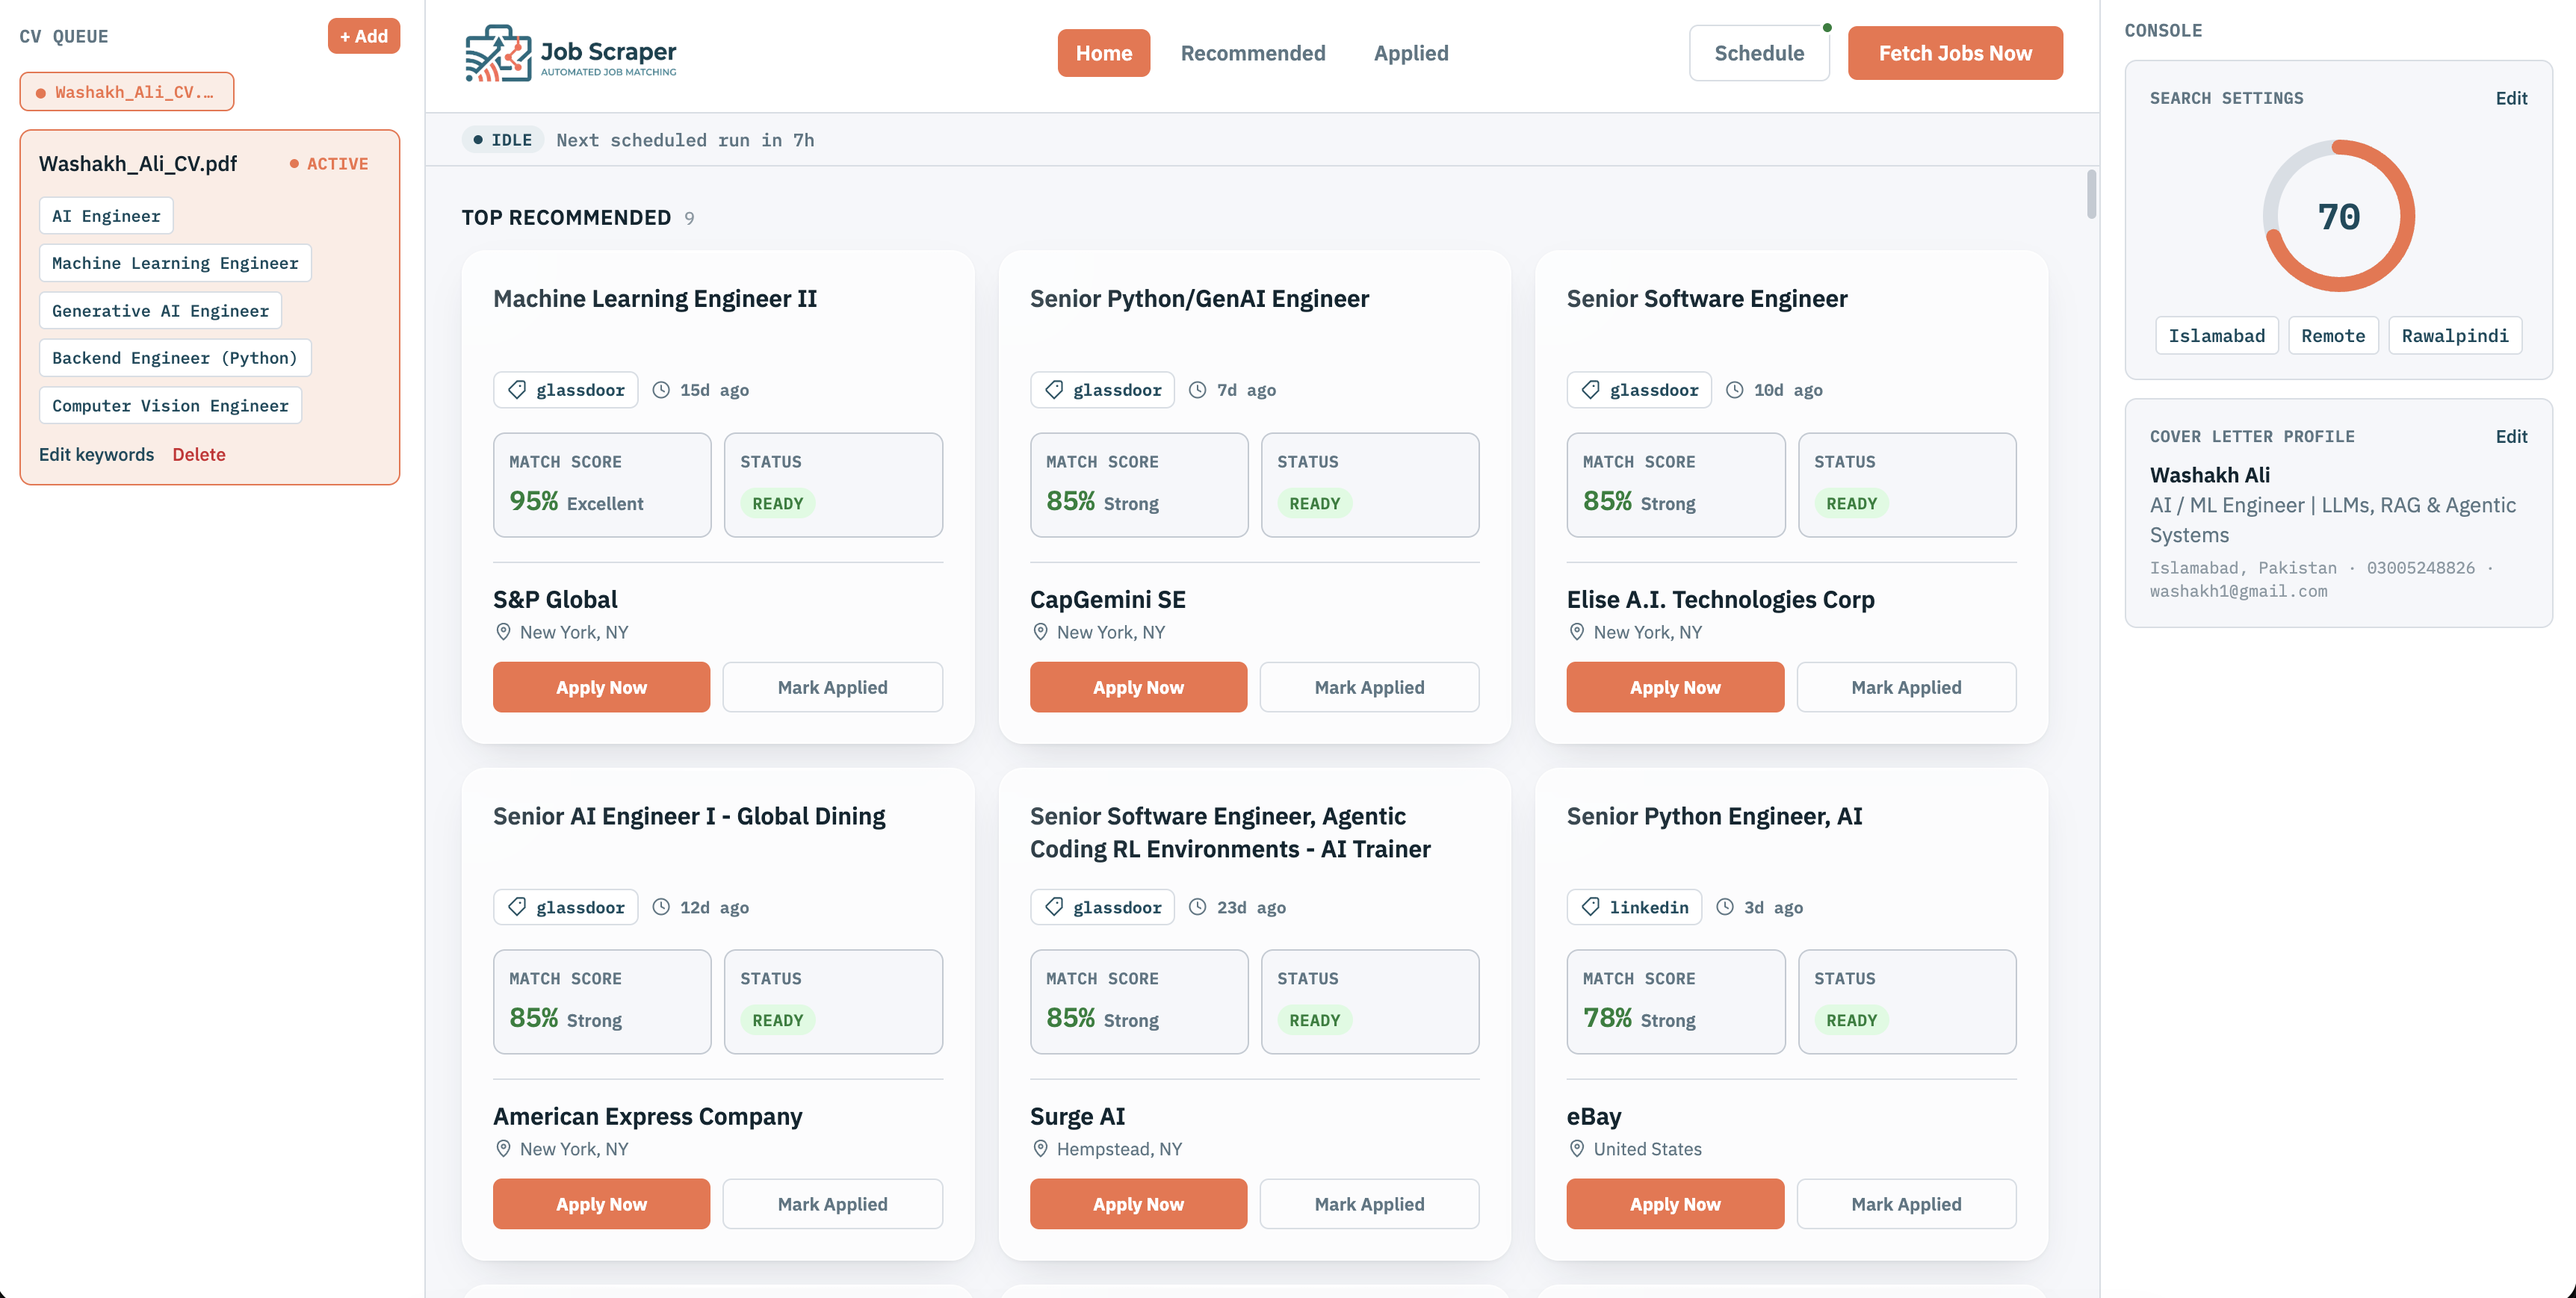
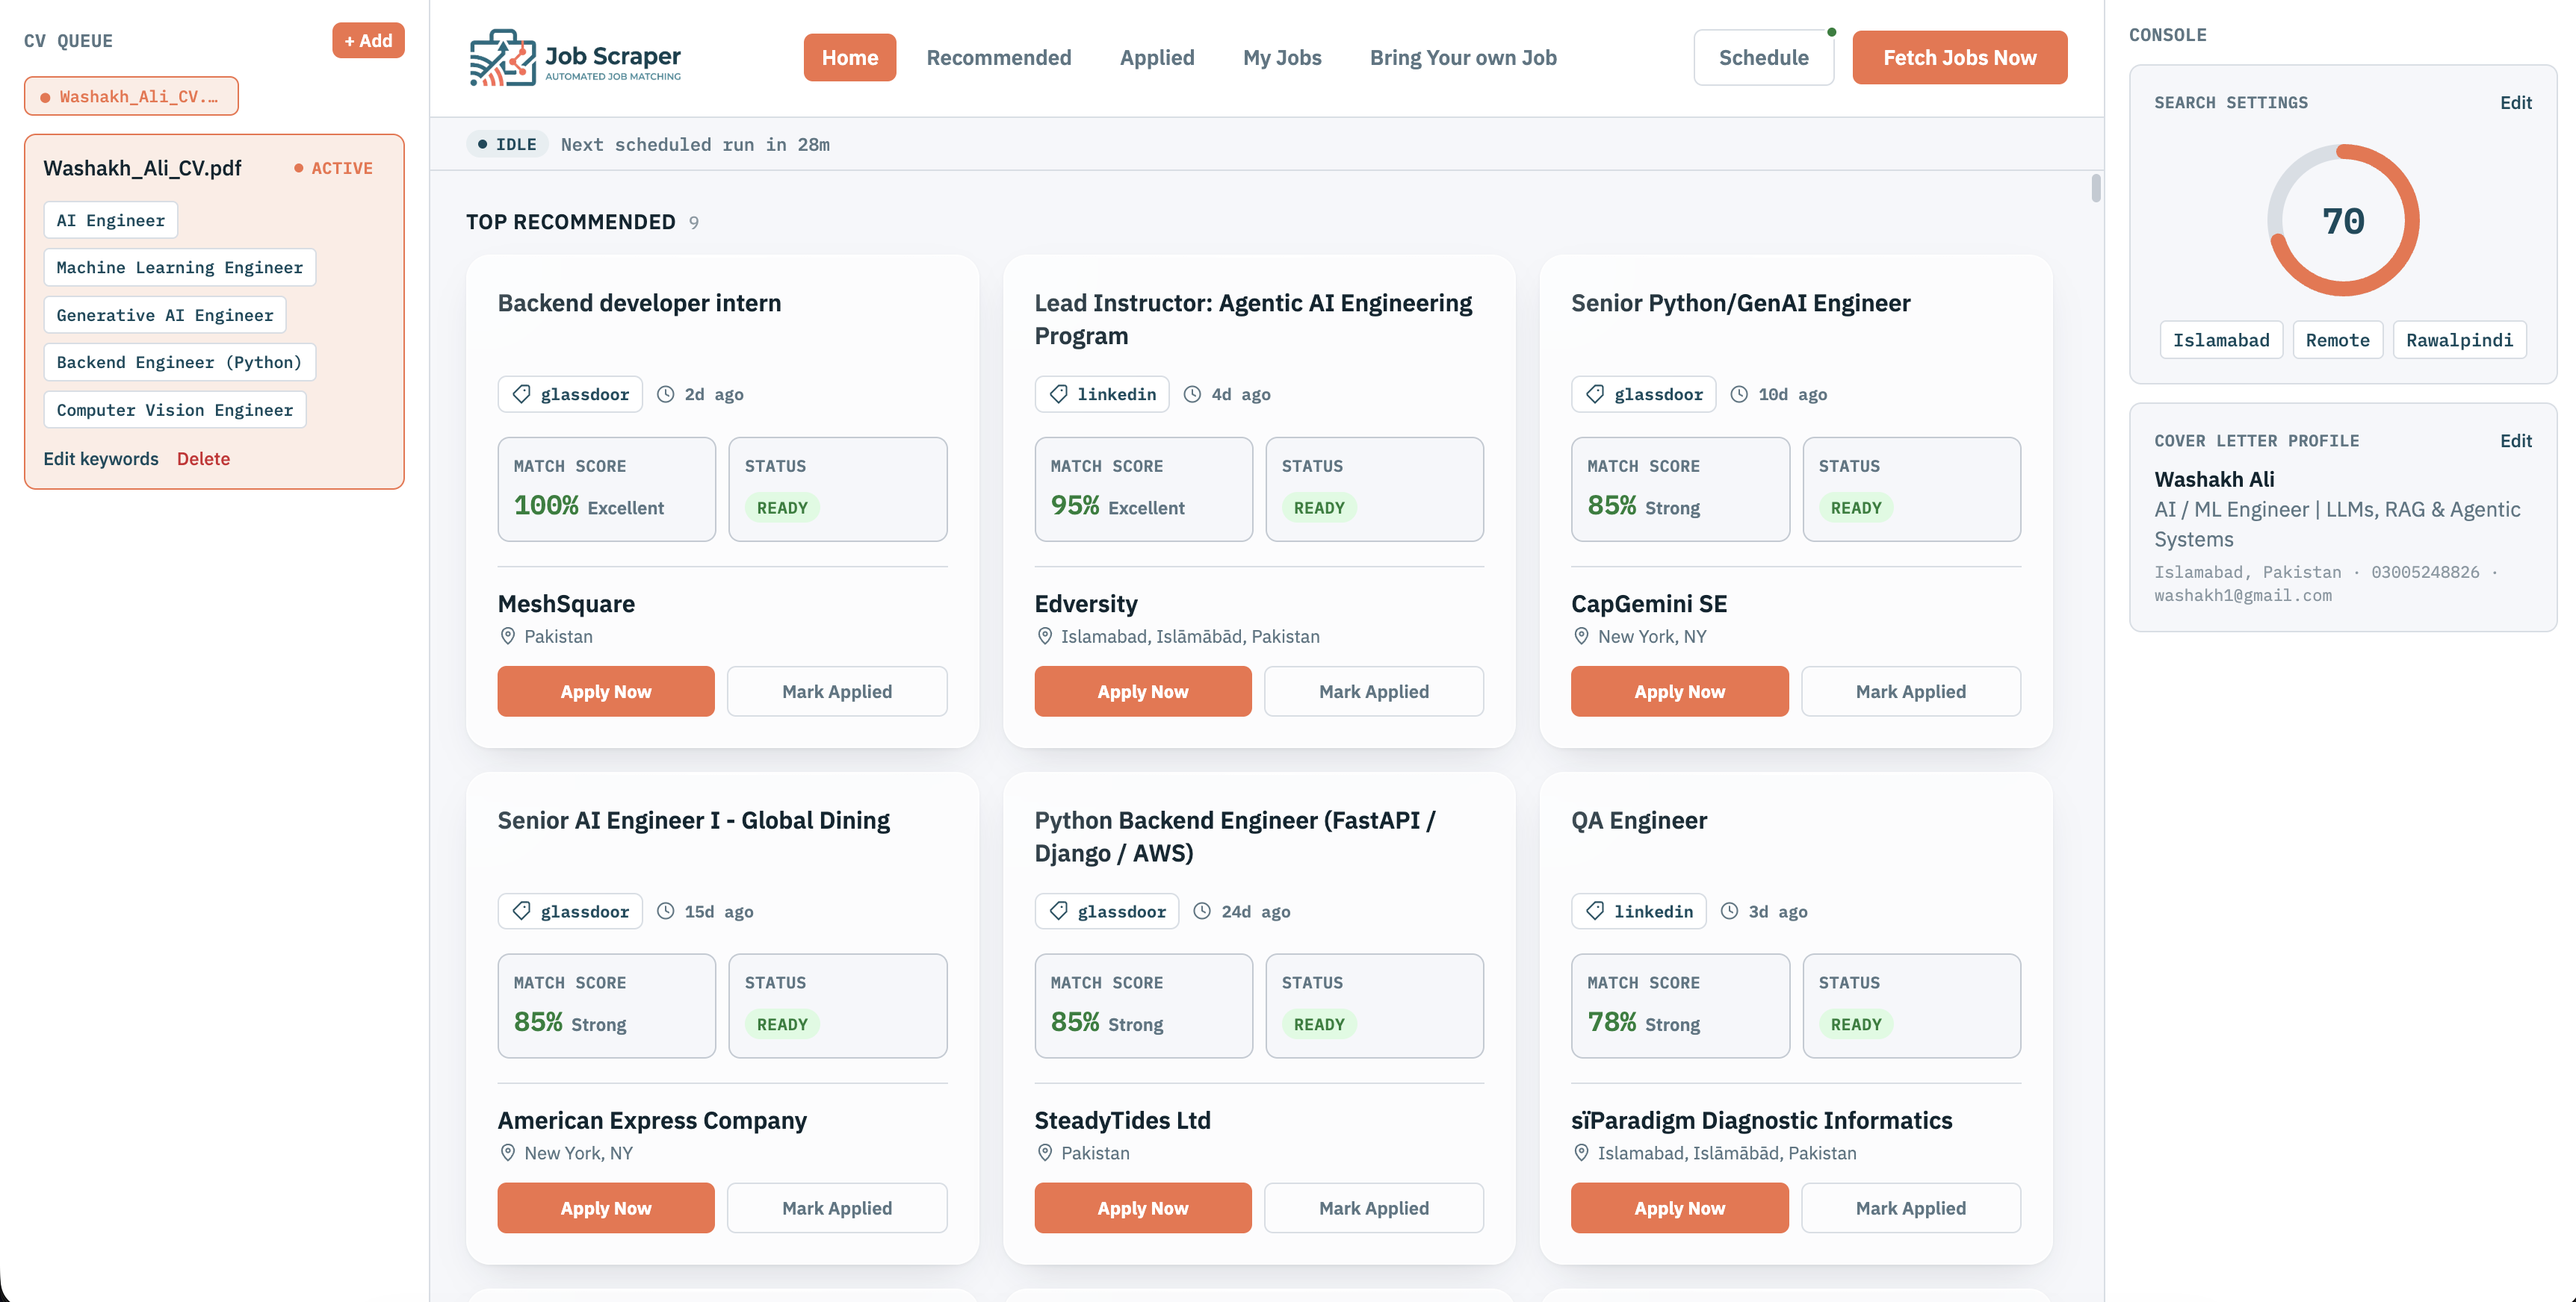
Update Readme

diff --git a/backend/scrapers/sources/remoteok.py b/backend/scrapers/sources/remoteok.py
@@ -17,7 +17,7 @@ class RemoteOKScraper(ScraperAdapter):
     async def fetch(
         self, keywords: list[str], location: str | None = None, limit: int = 25
     ) -> list[RawJob]:
-        resp = await self.client.get(BASE_URL, headers={"User-Agent": "job-scrapper/1.0"})
+        resp = await self.client.get(BASE_URL, headers={"User-Agent": "Job-Scraper/1.0"})
         resp.raise_for_status()
         items = resp.json()[1:]  # first item is API metadata, not a job
 

diff --git a/README.md b/README.md
@@ -73,8 +73,8 @@ No accounts, no SaaS subscription, no third party holding your CV. It runs in on
 The recommended path is Docker — one container, one persistent volume for your database, CVs, and logs.
 
 ```bash
-git clone <this-repo>
-cd job-scrapper
+git clone https://github.com/WashakhGen/Job-Scraper.git
+cd Job-Scraper
 cp .env.example .env   # fill in GEMINI_API_KEY / APIFY_API_TOKEN, etc.
 docker compose up -d --build
 ```
